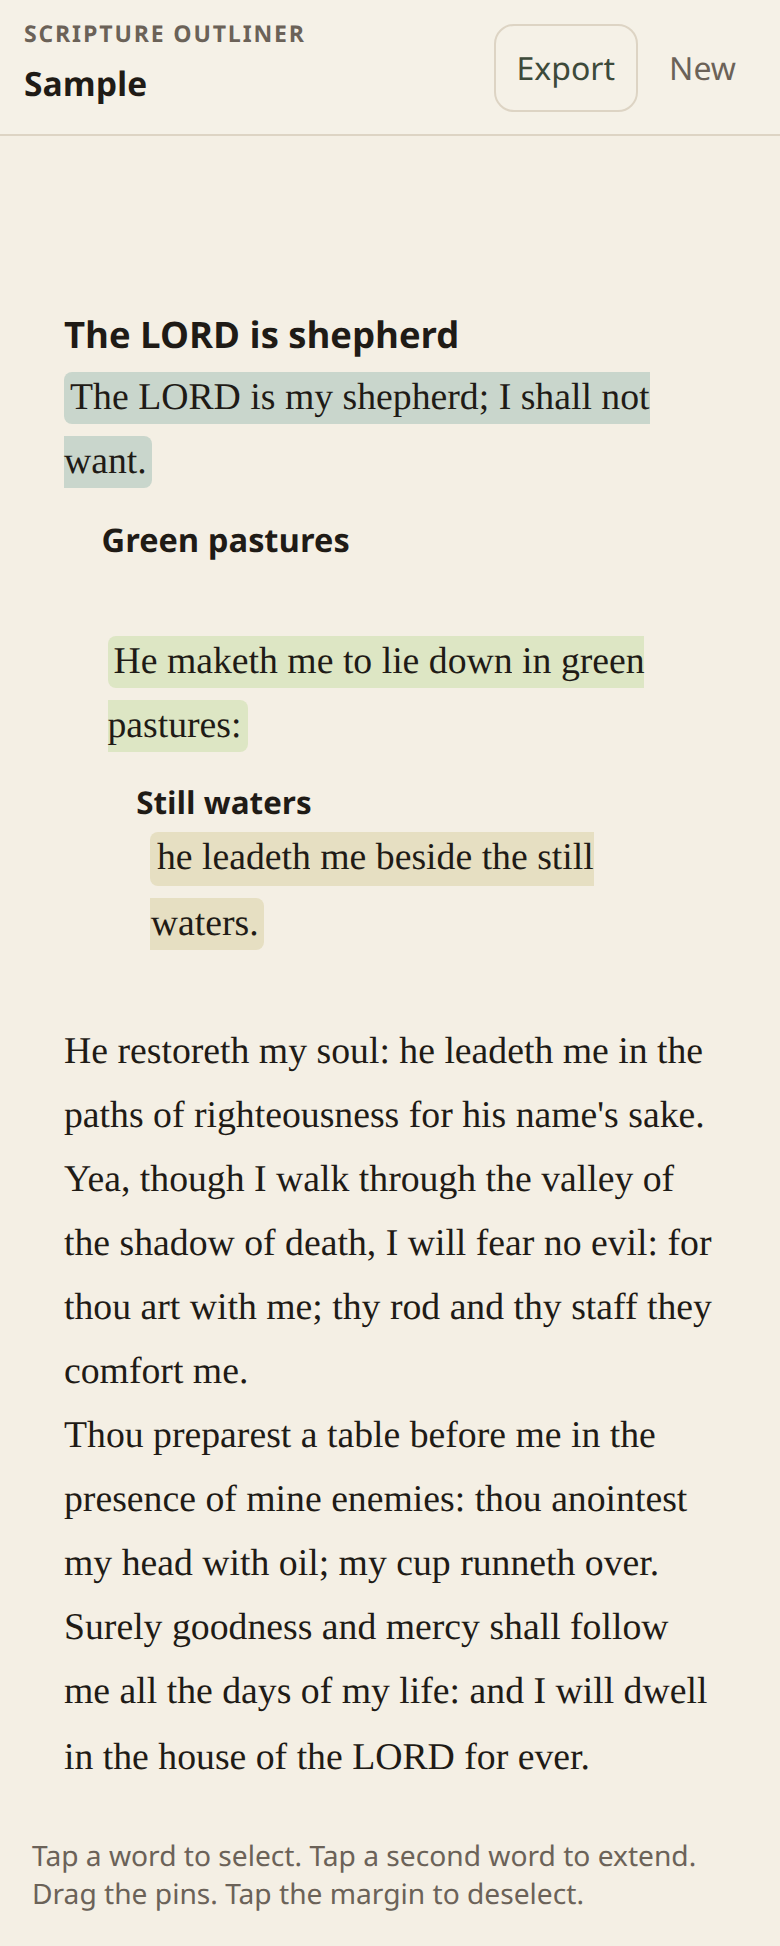
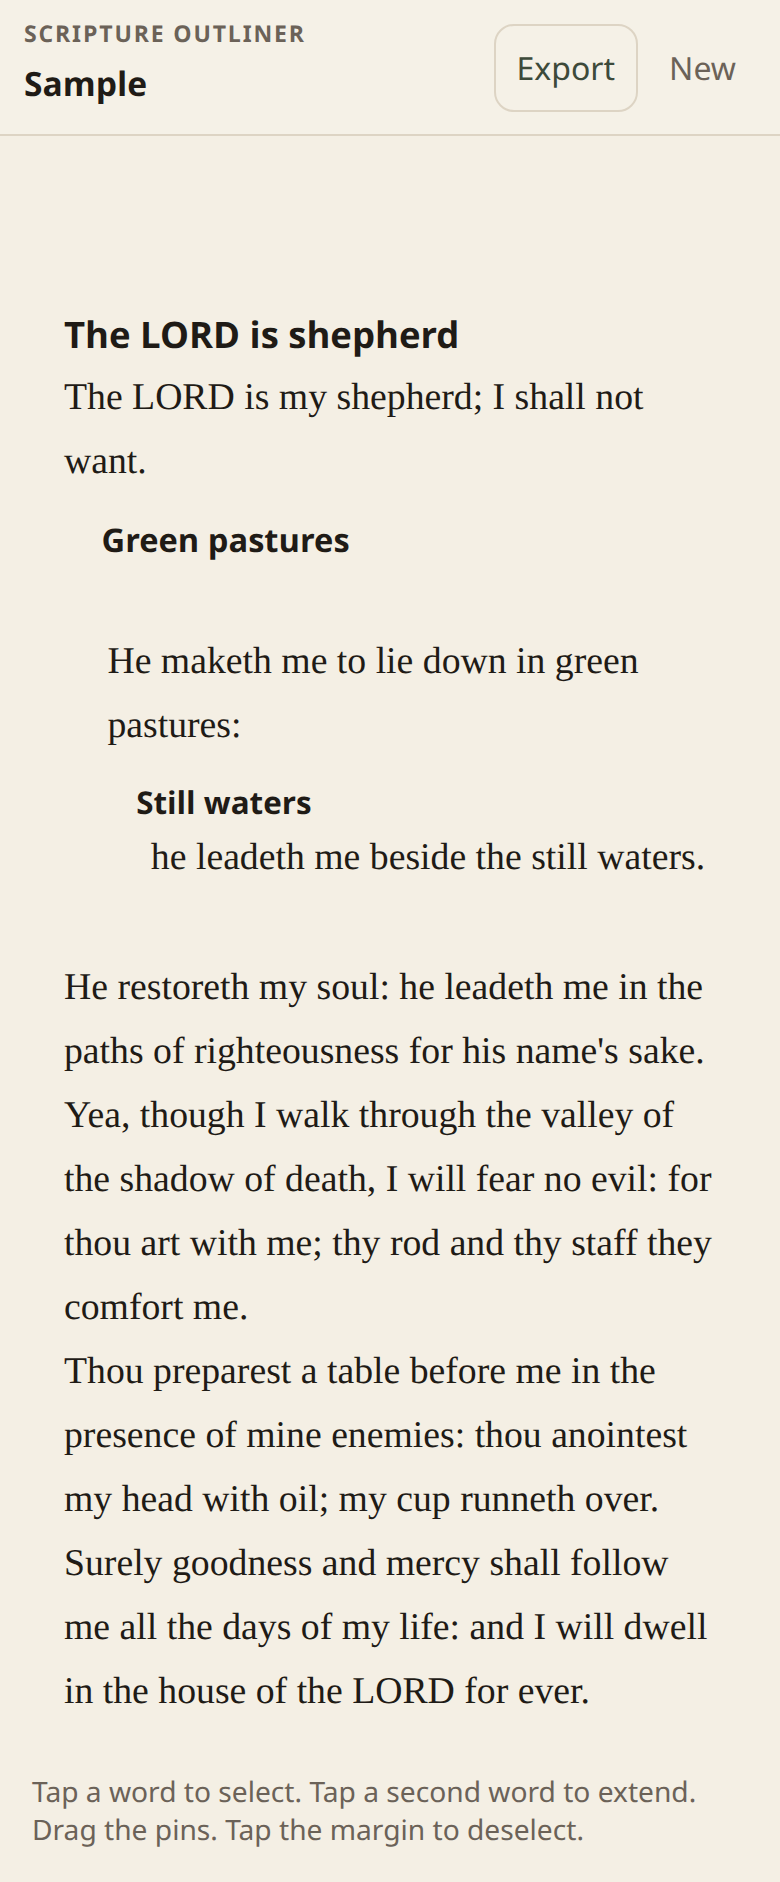
feat(passage): drop hierarchy body tints (#13)
Keep selection fill. Nested body text uses the passage color.

Proof: evidence/inline-outline/nested-selected.png at 390px.

diff --git a/src/app.ts b/src/app.ts
@@ -11,7 +11,6 @@ import {
   createDocument,
   createSegment,
   exactSegment,
-  highlightDepthForWord,
   innermostCoveringSegment,
   insertSegment,
   orderedSelection,
@@ -46,9 +45,6 @@ type PendingTap =
   | { kind: "word"; id: WordId; x: number; y: number }
   | { kind: "header"; id: string; x: number; y: number }
   | { kind: "empty"; x: number; y: number };
-
-const SEG_CLASSES = ["seg-0", "seg-1", "seg-2", "seg-3"] as const;
-const HIGHLIGHT_CLASSES = ["selected", ...SEG_CLASSES] as const;
 
 const ICON_SECTION = `<svg viewBox="0 0 24 24" aria-hidden="true" focusable="false"><path fill="none" stroke="currentColor" stroke-width="2.2" stroke-linecap="round" d="M7 5v14M17 5v14M7 12h10"/></svg>`;
 const ICON_DEEPER = `<svg viewBox="0 0 24 24" aria-hidden="true" focusable="false"><path fill="none" stroke="currentColor" stroke-width="2.2" stroke-linecap="round" stroke-linejoin="round" d="M6 5h12M10 10h8M10 10v8M7 15l3 3 3-3"/></svg>`;
@@ -139,28 +135,9 @@ export function mount(root: HTMLElement): void {
       .join("|")}`;
   }
 
-  function highlightKind(
-    current: Document,
-    id: WordId,
-  ): (typeof HIGHLIGHT_CLASSES)[number] | null {
+  function wordSelected(current: Document, id: WordId): boolean {
     const selection = current.selection;
-    if (selection !== null && id >= selection.start && id <= selection.end) {
-      return "selected";
-    }
-    const depth = highlightDepthForWord(current.segments, id);
-    if (depth === null) {
-      return null;
-    }
-    return SEG_CLASSES[Math.min(depth, SEG_CLASSES.length - 1)] ?? "seg-3";
-  }
-
-  function applyHighlightClasses(
-    el: HTMLElement,
-    kind: (typeof HIGHLIGHT_CLASSES)[number] | null,
-  ): void {
-    for (const cls of HIGHLIGHT_CLASSES) {
-      el.classList.toggle(cls, kind === cls);
-    }
+    return selection !== null && id >= selection.start && id <= selection.end;
   }
 
   function renderPassage(): void {
@@ -178,35 +155,35 @@ export function mount(root: HTMLElement): void {
     const wordCount = current.passage.words.length;
     for (const el of words) {
       const id = Number(el.dataset.wordId);
-      const kind = highlightKind(current, id);
-      applyHighlightClasses(el, kind);
-      const prevKind = id > 0 ? highlightKind(current, id - 1) : null;
-      const nextKind = id + 1 < wordCount ? highlightKind(current, id + 1) : null;
+      const selected = wordSelected(current, id);
+      el.classList.toggle("selected", selected);
+      const prevSelected = id > 0 && wordSelected(current, id - 1);
+      const nextSelected =
+        id + 1 < wordCount && wordSelected(current, id + 1);
       const breakHere = breaks[id] ?? "space";
       const nextBreak =
         id + 1 < wordCount ? (breaks[id + 1] ?? "space") : "none";
       const runStart =
-        kind !== null &&
-        (prevKind !== kind ||
+        selected &&
+        (!prevSelected ||
           breakHere === "newline" ||
           breakHere === "par" ||
           breakHere === "none");
       const runEnd =
-        kind !== null &&
-        (nextKind !== kind || nextBreak === "newline" || nextBreak === "par");
+        selected &&
+        (!nextSelected || nextBreak === "newline" || nextBreak === "par");
       el.classList.toggle("hl-start", runStart);
       el.classList.toggle("hl-end", runEnd);
     }
     for (const gap of refs.passage.querySelectorAll<HTMLSpanElement>(".gap")) {
       const beforeId = Number(gap.dataset.before);
       if (!Number.isInteger(beforeId) || beforeId <= 0) {
-        applyHighlightClasses(gap, null);
+        gap.classList.toggle("selected", false);
         continue;
       }
-      const left = highlightKind(current, beforeId - 1);
-      const right = highlightKind(current, beforeId);
-      const fill = left !== null && left === right;
-      applyHighlightClasses(gap, fill ? left : null);
+      const fill =
+        wordSelected(current, beforeId - 1) && wordSelected(current, beforeId);
+      gap.classList.toggle("selected", fill);
     }
     for (const header of refs.passage.querySelectorAll<HTMLElement>(
       "[data-testid='section-header']",

diff --git a/src/styles.css b/src/styles.css
@@ -9,10 +9,6 @@
   --cream: #fcf8f0;
   --gold: #e8c56b;
   --sel: #f3d98a;
-  --seg0: #c9d6cc;
-  --seg1: #dde6c4;
-  --seg2: #e6dfc2;
-  --seg3: #e6d3c0;
   --indent: 1.15em;
   --line: #ddd4c4;
   --danger: #8b3a32;
@@ -319,26 +315,6 @@ button.danger {
   text-decoration-thickness: 2px;
   text-underline-offset: 3px;
   text-decoration-color: color-mix(in srgb, var(--forest) 55%, var(--gold));
-}
-
-.word.seg-0,
-.gap.seg-0 {
-  background: var(--seg0);
-}
-
-.word.seg-1,
-.gap.seg-1 {
-  background: var(--seg1);
-}
-
-.word.seg-2,
-.gap.seg-2 {
-  background: var(--seg2);
-}
-
-.word.seg-3,
-.gap.seg-3 {
-  background: var(--seg3);
 }
 
 .word.selected,

diff --git a/src/segments.ts b/src/segments.ts
@@ -330,22 +330,6 @@ export function passageParts(
   return parts;
 }
 
-export function highlightDepthForWord(
-  segments: readonly Segment[],
-  wordId: WordId,
-): number | null {
-  let deepest: number | null = null;
-  for (const segment of segments) {
-    if (wordId < segment.start || wordId > segment.end) {
-      continue;
-    }
-    if (deepest === null || segment.depth > deepest) {
-      deepest = segment.depth;
-    }
-  }
-  return deepest;
-}
-
 export function snippet(
   words: readonly { text: string }[],
   start: WordId,

diff --git a/.cursor/skills/verify-scripture-outliner/features/inline-outline.md b/.cursor/skills/verify-scripture-outliner/features/inline-outline.md
@@ -8,6 +8,7 @@ The passage is the outline. Section summaries render as bold headers above their
 - `nested-indent` shows a depth-1 header on its own line, indented under the parent.
 - `depth-two` shows a depth-2 header indented further than the subsection.
 - `summary-header-only` shows no header after Section/Deeper until a non-empty Summary is saved.
+- `body-untinted` keeps nested body text in the passage color. Only `.selected` fills.
 
 ## How to get to it (user POV)
 
@@ -26,7 +27,8 @@ Preconditions:
 - **Subsection.** Tap word 9 (shrinks the selected section to that word), tap word 24, choose **Deeper**, **Summary** `Green pastures`. A `section-header[data-depth="1"]` sits on its own line with greater left padding than depth 0.
 - **Subsubsection.** Tap word 18, tap word 24, choose **Deeper**, **Summary** `Still waters`. A `section-header[data-depth="2"]` is present. Depths include `"0"`, `"1"`, and `"2"`.
 - **Clear chrome.** Tap the pane margin so pins and the toolbar do not cover headers. Run `page.getByTestId("pane-text").click({ position: { x: 10, y: 10 } })`.
-- **Proof.** `drive.mjs inline-outline` writes `evidence/inline-outline/nested.png` at 390×844 showing the three headers in the passage. Also capture `before.png` after sample load.
+- **Body color.** Words at depths 0, 1, and 2 have no `seg-*` class. Their computed background is transparent and identical. Then tap the depth-2 header so words `18–24` are `.selected` with a non-transparent fill and filled `.gap.selected` spaces. Words `0` and `9` stay unselected and transparent.
+- **Proof.** `drive.mjs inline-outline` writes `evidence/inline-outline/nested.png` at 390×844 showing the three headers with untinted body text, then `nested-selected.png` with the inner range highlighted. Also capture `before.png` after sample load.
 
 ## Gotchas
 

diff --git a/.cursor/skills/verify-scripture-outliner/features/word-selection.md b/.cursor/skills/verify-scripture-outliner/features/word-selection.md
@@ -23,7 +23,7 @@ Preconditions:
 
 - Sample is loaded (run `import-sample` first or use `drive.mjs word-selection`, which loads the sample).
 - **Single word.** Tap the first word. Run `page.getByTestId("word").first().click()` or `page.locator('[data-word-id="0"]').click()`. Exactly one `.selected` word. `pin-start` and `pin-end` are visible (`hidden` attribute absent). `selection-toolbar` is visible with icon buttons `action-section`, `action-deeper`, `action-shallower`, `action-summary`, and `action-delete`. There is no `action-bar` and no `action-clear`. `selection-hint` is hidden.
-- **Extend.** Tap a later word. Run `page.getByTestId("word").nth(4).click()`. At least two `.selected` words, still inclusive of the first tap. Pins remain visible. Spaces between those words have class `gap selected` so the highlight reads as one bar, not chips.
+- **Extend.** Tap a later word. Run `page.getByTestId("word").nth(4).click()`. At least two `.selected` words, still inclusive of the first tap. Pins remain visible. Spaces between those words have class `gap selected` so the highlight reads as one bar, not chips. Unselected words keep a transparent background. No `seg-*` classes.
 - **Deselect.** Tap the pane margin. Run `page.getByTestId("pane-text").click({ position: { x: 10, y: 10 } })`. Zero `.selected` words. Pins hidden. `selection-hint` visible again.
 - **Proof.** `drive.mjs word-selection` writes `evidence/word-selection/range.png` and `range.aria.txt` after the extended range exists.
 

diff --git a/.cursor/skills/verify-scripture-outliner/evidence/README.md b/.cursor/skills/verify-scripture-outliner/evidence/README.md
@@ -2,4 +2,4 @@
 
 Artifacts written by `.cursor/skills/verify-scripture-outliner/scripts/drive.mjs`. Cleanup does not delete this directory.
 
-First proven feature: [import-sample](./import-sample/). Inline-outline PRs must also keep [inline-outline](./inline-outline/) screenshots (bold header, nested indent, depth ≥ 2). Deselect-outside PRs must keep [deselect-outside](./deselect-outside/) `selected.png` (word selected) and `deselected.png` (cleared by a margin tap). Header-tap selection is locked by [header-select](./header-select/). Icon-toolbar PRs must keep [icon-toolbar](./icon-toolbar/) at 390×844 showing the icon hint including X.
+First proven feature: [import-sample](./import-sample/). Inline-outline PRs must also keep [inline-outline](./inline-outline/) screenshots (bold header, nested indent, depth ≥ 2, untinted body, `nested-selected.png` with a visible range highlight). Deselect-outside PRs must keep [deselect-outside](./deselect-outside/) `selected.png` (word selected) and `deselected.png` (cleared by a margin tap). Header-tap selection is locked by [header-select](./header-select/). Icon-toolbar PRs must keep [icon-toolbar](./icon-toolbar/) at 390×844 showing the icon hint including X.

diff --git a/.cursor/skills/verify-scripture-outliner/SKILL.md b/.cursor/skills/verify-scripture-outliner/SKILL.md
@@ -100,7 +100,7 @@ Proof standards:
 
 Seeded proof from the first skill run: `evidence/import-sample/`.
 
-**Standing rule:** every future feature PR must include a screenshot or screen recording as proof of the change (390×844 for UI). Attach it in the PR (evidence path and/or walkthrough artifact). Do not merge interaction changes on description alone. Inline-outline PRs must show (1) a bold section header in the passage, (2) a nested indented subsection, and (3) depth ≥ 2 when practical. Icon-toolbar PRs must show the icon hint including the Delete X.
+**Standing rule:** every future feature PR must include a screenshot or screen recording as proof of the change (390×844 for UI). Attach it in the PR (evidence path and/or walkthrough artifact). Do not merge interaction changes on description alone. Inline-outline PRs must show (1) a bold section header in the passage, (2) a nested indented subsection, and (3) depth ≥ 2 when practical. Nested body text must share the passage color. Only `.selected` may tint words. Icon-toolbar PRs must show the icon hint including the Delete X.
 
 ## Cleanup
 

diff --git a/README.md b/README.md
@@ -72,7 +72,7 @@ Use device mode at **390×844** (or an actual phone). After `npm run dev`:
 4. Drag the end pin onto **shepherd;** — it snaps to that word, never mid-token.
 5. **Section** (heading icon), then select an inner phrase and **Deeper**. No header yet. The subsection starts on its own indented line.
 6. **Deeper** again on a still-inner range (depth 2). **Summary**, type a sentence, Save. The bold header appears above that range. Empty summaries do not render a header.
-7. Highlights use stacked shades; selection fill stays one continuous bar. There is no Text / Outline / Split toggle.
+7. Body text keeps the passage color at every depth. Only the current selection fills as one continuous bar. There is no Text / Outline / Split toggle.
 8. Reload the tab. Title, nested segments, and summaries return.
 9. **Export** produces a `.md` file with `#` title and `##` / `###` / `####` outline headings.
 

diff --git a/.cursor/skills/verify-scripture-outliner/features/README.md b/.cursor/skills/verify-scripture-outliner/features/README.md
@@ -43,5 +43,5 @@ Each feature file starts with an H1 title and one paragraph describing the user-
 - [Section, deeper, and summary](./section-deeper-summary.md) covers marking ranges and writing a heading.
 - [Header tap selects the section](./header-select.md) covers tapping a header to reselect that segment’s word range.
 - [Icon selection toolbar](./icon-toolbar.md) covers icon-only Section / Deeper / Shallower / Summary / Delete.
-- [Inline outline](./inline-outline.md) covers bold headers in the passage, nested indent, and depth ≥ 2.
+- [Inline outline](./inline-outline.md) covers bold headers in the passage, nested indent, depth ≥ 2, and untinted body text.
 - [Persistence](./persistence.md) covers `localStorage` restore after reload.
